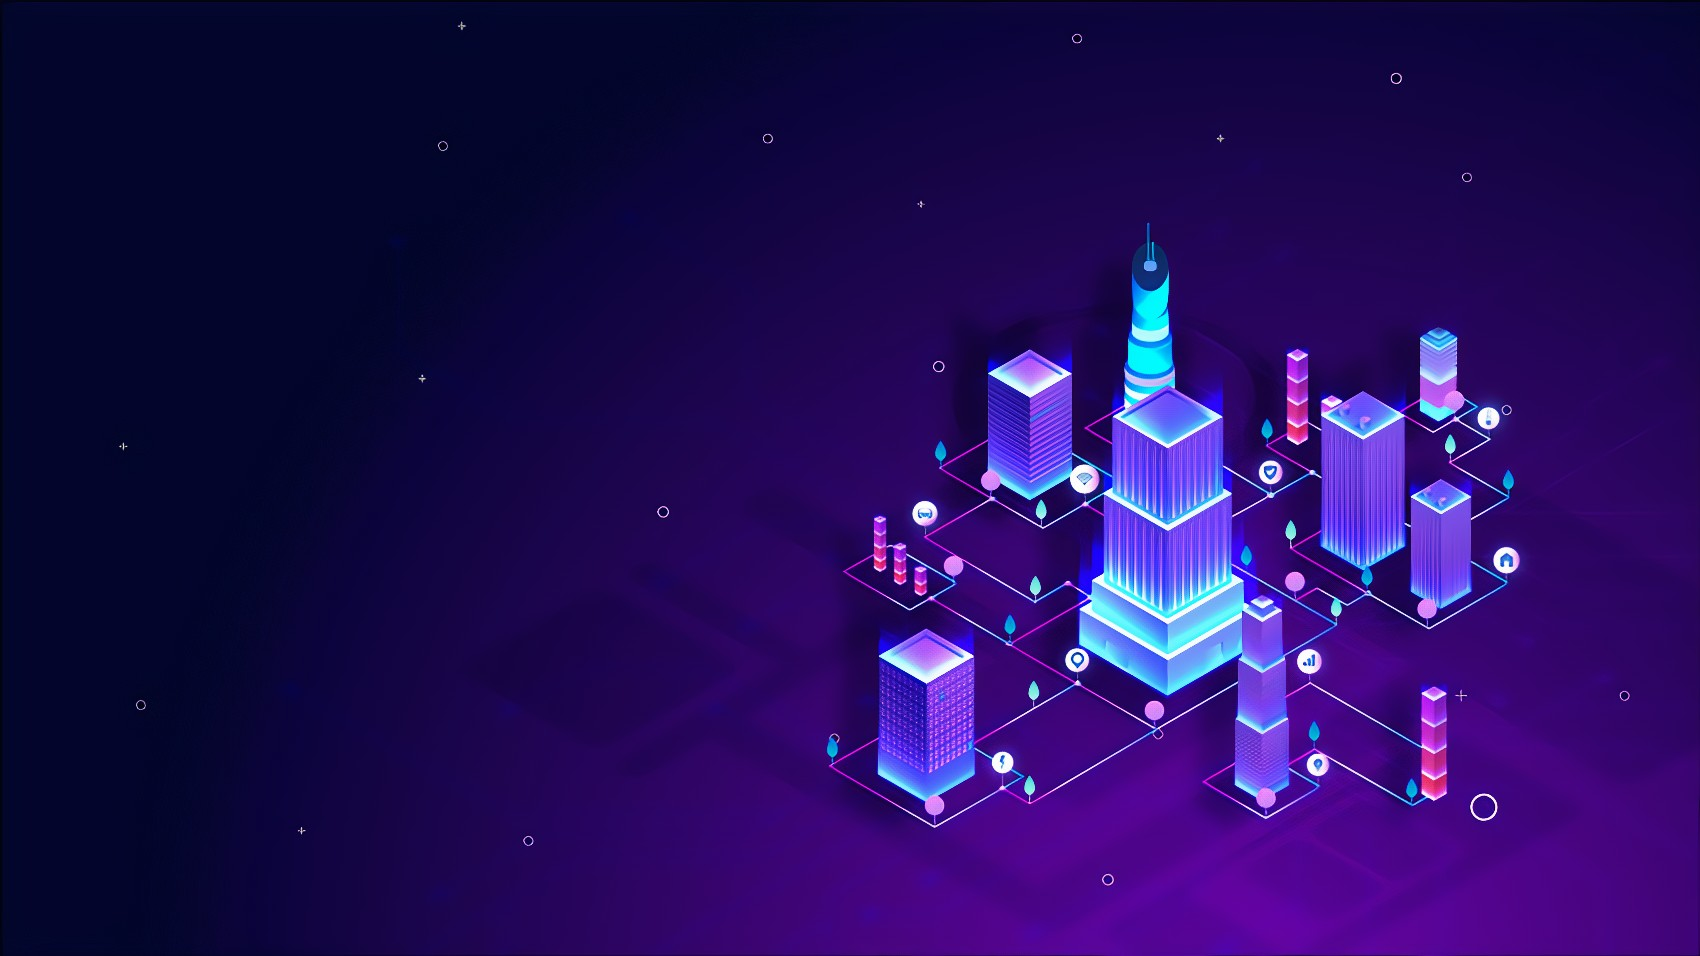
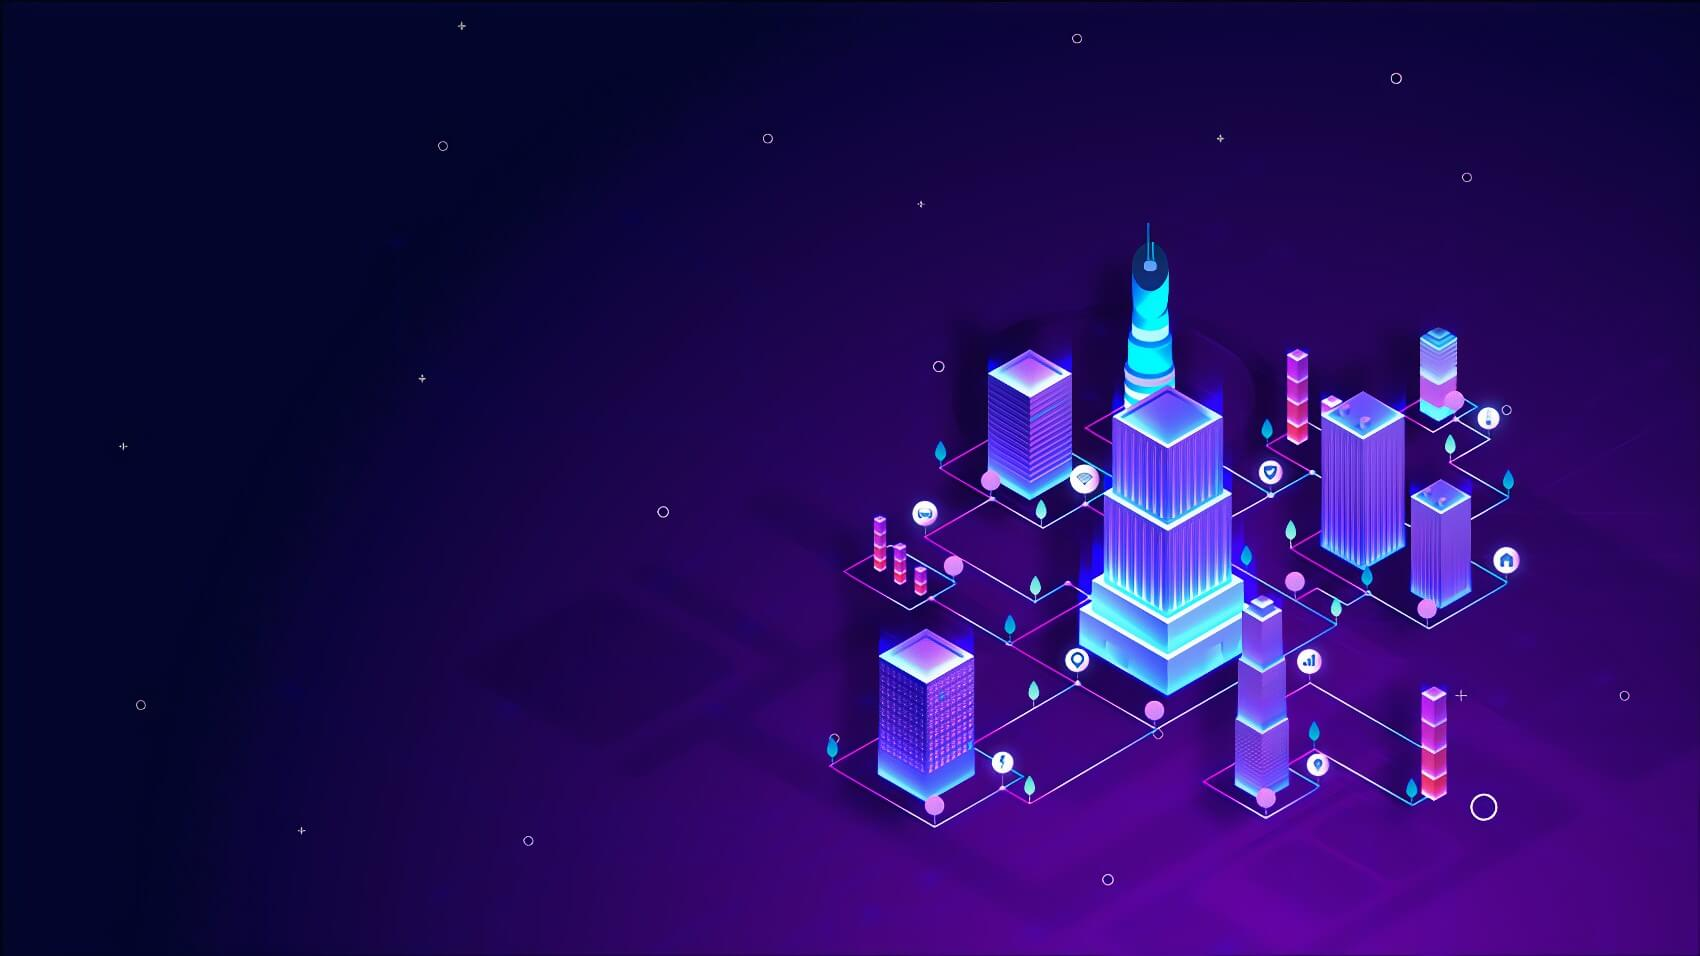
some optimization

diff --git a/src/components/homepage/HomeSection.vue b/src/components/homepage/HomeSection.vue
@@ -1,6 +1,6 @@
 <template>
   <section id="hero">
-    <v-parallax dark src="@/assets/img/bgHero.jpg" height="350">
+    <v-parallax dark src="@/assets/img/bgHero.webp" height="350">
       <v-row align="center" justify="center">
         <v-col cols="10">
           <v-row align="center" justify="center">

diff --git a/src/components/homepage/Navigation.vue b/src/components/homepage/Navigation.vue
@@ -2,7 +2,7 @@
   <div>
     <v-navigation-drawer v-model="drawer"
       app temporary dark
-      src="@/assets/img/bgDrawer.jpg"
+      src="@/assets/img/bgDrawer.webp"
     >
       <v-list>
         <v-list-item>

diff --git a/README.md b/README.md
@@ -1,11 +1,13 @@
 # QUIZ APP
-https://squiz-app.netlify.app/
 
-Tested with:
+[![License: MIT](https://img.shields.io/badge/License-MIT-lime.svg)](https://opensource.org/licenses/MIT)
 
-Node v12.13.1
+###[VISIT DEMO](https://squiz-app.netlify.app/)
 
-Npm 6.12.1
+##Tested with:
+
+- Node v12.13.1
+- Npm 6.12.1
 
 ## Project setup
 ```
@@ -22,5 +24,17 @@ npm run serve
 npm run build
 ```
 
+## Screenshot
+![QuizApp Demo](https://user-images.githubusercontent.com/10188029/133921722-532ff8b1-0abf-443a-af66-92a93655fc35.gif)
+
+### Resources use
+- Design Framework: [Vuetify](https://vuetifyjs.com/en/)
+- Homepage: [vuetify-landing-page](https://github.com/Joabsonlg/vuetify-landing-page)
+- Admin panel template: [vuetify-material-dashboard](https://www.creative-tim.com/product/vuetify-material-dashboard)
+
 ### Customize configuration
 See [Configuration Reference](https://cli.vuejs.org/config/).
+
+## License
+
+The MIT License (MIT)
